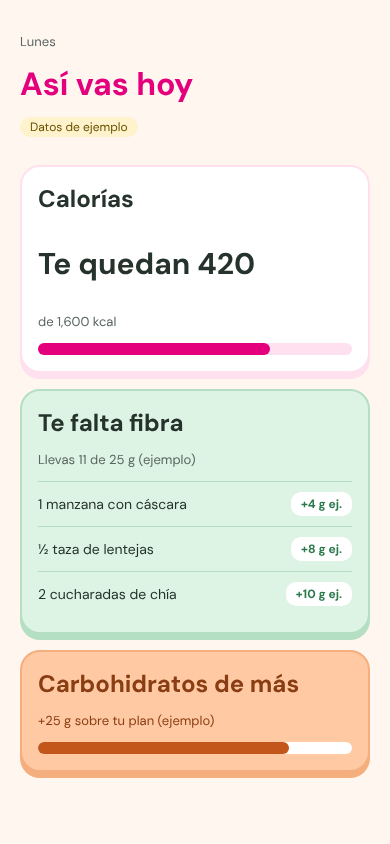
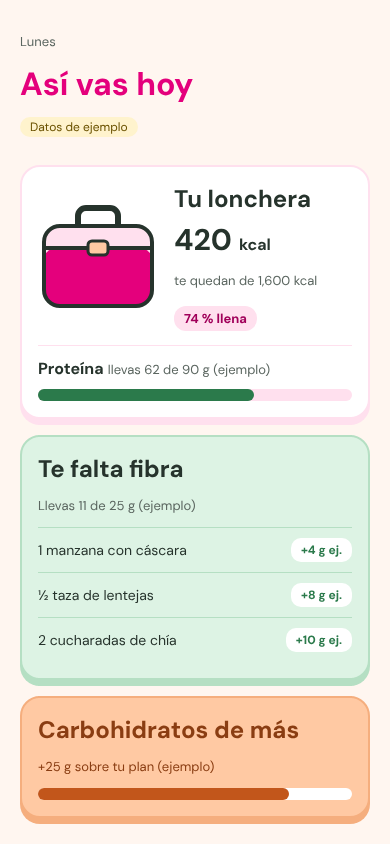
Paso 3: lonchera que se llena (SVG) y proteína
Datos de ejemplo en un solo objeto en app.js; la lonchera, el texto
y las barras salen de ahí.

Claude-Session: https://claude.ai/code/session_01R56yj7XNAcYoTsbzmzut6J

Changed region(s): [[0.0308, 0.5545, 0.9538, 0.9858], [0.0308, 0.2156, 0.9538, 0.6161]]

diff --git a/Lonchi.html b/Lonchi.html
@@ -16,15 +16,45 @@
         <p class="aviso-ejemplo">Datos de ejemplo</p>
     </header>
 
-    <!-- CALORÍAS -->
+    <!-- LONCHERA (calorías + proteína). Los números los pone app.js -->
     <section class="tarjeta">
-        <h2>Calorías</h2>
-        <p class="grande">Te quedan 420</p>
-        <p class="chico">de 1,600 kcal</p>
-        <!-- Llevas 1,180 de 1,600 = 74 % -->
-        <div class="barra" role="progressbar" aria-label="Calorías consumidas"
-             aria-valuemin="0" aria-valuemax="1600" aria-valuenow="1180">
-            <div class="relleno" style="width: 74%"></div>
+        <div class="lonchera-fila">
+            <svg class="lonchera" id="lonchera" viewBox="0 0 120 110" role="progressbar"
+                 aria-label="Calorías del día" aria-valuemin="0">
+                <defs>
+                    <clipPath id="caja">
+                        <rect x="6" y="24" width="108" height="80" rx="16"/>
+                    </clipPath>
+                </defs>
+                <!-- Asa -->
+                <path d="M40 24 V14 a8 8 0 0 1 8 -8 h24 a8 8 0 0 1 8 8 V24"
+                      fill="none" stroke="currentColor" stroke-width="6"/>
+                <!-- Caja vacía -->
+                <rect x="6" y="24" width="108" height="80" rx="16" class="lonchera-fondo"/>
+                <!-- Relleno que sube -->
+                <rect x="6" y="24" width="108" height="80" clip-path="url(#caja)"
+                      class="lonchera-relleno" id="lonchera-relleno"/>
+                <!-- Contorno, tapa y broche (encima del relleno) -->
+                <rect x="6" y="24" width="108" height="80" rx="16"
+                      fill="none" stroke="currentColor" stroke-width="4"/>
+                <line x1="6" y1="46" x2="114" y2="46" stroke="currentColor" stroke-width="4"/>
+                <rect x="50" y="39" width="20" height="14" rx="4" class="lonchera-broche"
+                      stroke="currentColor" stroke-width="3"/>
+            </svg>
+
+            <div>
+                <h2>Tu lonchera</h2>
+                <p class="grande"><span id="kcal-quedan">–</span> <small>kcal</small></p>
+                <p class="chico">te quedan de <span id="kcal-meta">–</span></p>
+                <p class="chip" id="lonchera-porcentaje">–</p>
+            </div>
+        </div>
+
+        <div class="proteina">
+            <p><strong>Proteína</strong> <span class="chico" id="prot-texto">–</span></p>
+            <div class="barra" role="progressbar" aria-label="Proteína del día" id="prot-barra" aria-valuemin="0">
+                <div class="relleno verde-relleno" id="prot-relleno"></div>
+            </div>
         </div>
     </section>
 

diff --git a/app.js b/app.js
@@ -2,6 +2,54 @@
 const dias = ["Domingo", "Lunes", "Martes", "Miércoles", "Jueves", "Viernes", "Sábado"];
 document.getElementById("dia").textContent = dias[new Date().getDay()];
 
+// ---------- Datos del día (EJEMPLO, no son datos reales) ----------
+// Más adelante esto vendrá de lo que registres. Por ahora cambia
+// estos números para probar cómo se llena la lonchera.
+const hoy = {
+    kcalMeta: 1600,
+    kcalComidas: 1180,
+    protMeta: 90,
+    protComidas: 62
+};
+
+// ---------- Lonchera ----------
+function formato(n) {
+    return n.toLocaleString("es-MX");
+}
+
+function pintarLonchera() {
+    const lleno = Math.min(hoy.kcalComidas / hoy.kcalMeta, 1); // nunca más de 1 (100 %)
+    const quedan = Math.max(hoy.kcalMeta - hoy.kcalComidas, 0);
+    const porcentaje = Math.round(lleno * 100);
+
+    document.getElementById("kcal-quedan").textContent = formato(quedan);
+    document.getElementById("kcal-meta").textContent = formato(hoy.kcalMeta) + " kcal";
+    document.getElementById("lonchera-porcentaje").textContent = porcentaje + " % llena";
+
+    const svg = document.getElementById("lonchera");
+    svg.setAttribute("aria-valuemax", hoy.kcalMeta);
+    svg.setAttribute("aria-valuenow", hoy.kcalComidas);
+    svg.setAttribute("aria-valuetext", "Llevas " + formato(hoy.kcalComidas) + " de " + formato(hoy.kcalMeta) + " kcal");
+
+    // Esperamos un instante para que se vea la animación de llenado
+    requestAnimationFrame(function () {
+        setTimeout(function () {
+            svg.style.setProperty("--lleno", lleno);
+        }, 50);
+    });
+
+    // Proteína
+    const prot = Math.min(hoy.protComidas / hoy.protMeta, 1);
+    document.getElementById("prot-texto").textContent =
+        "llevas " + hoy.protComidas + " de " + hoy.protMeta + " g (ejemplo)";
+    document.getElementById("prot-relleno").style.width = (prot * 100) + "%";
+    const barra = document.getElementById("prot-barra");
+    barra.setAttribute("aria-valuemax", hoy.protMeta);
+    barra.setAttribute("aria-valuenow", hoy.protComidas);
+}
+
+pintarLonchera();
+
 // ---------- Ventana de ayuda ----------
 const fondo = document.getElementById("fondo");
 const panel = document.getElementById("panel");

diff --git a/styles.css b/styles.css
@@ -98,6 +98,69 @@ h1 {
     background: var(--naranja-barra);
 }
 
+/* ---------- Lonchera ---------- */
+.lonchera-fila {
+    display: flex;
+    align-items: center;
+    gap: 16px;
+}
+
+.lonchera {
+    width: 120px;
+    flex-shrink: 0;
+    color: var(--texto); /* currentColor = color de las líneas */
+}
+
+.lonchera-fondo {
+    fill: var(--rosa-suave);
+}
+
+.lonchera-relleno {
+    fill: var(--rosa);
+    /* Crece de abajo hacia arriba. --lleno lo pone app.js (0 a 1) */
+    transform-box: fill-box;
+    transform-origin: bottom;
+    transform: scaleY(var(--lleno, 0));
+    transition: transform 0.9s ease-out;
+}
+
+.lonchera-broche {
+    fill: var(--naranja-pastel);
+}
+
+.grande small {
+    font-size: 16px;
+}
+
+.grande {
+    margin: 6px 0 0;
+}
+
+.chip {
+    display: inline-block;
+    margin: 4px 0 0;
+    background: var(--rosa-suave);
+    color: var(--rosa-oscuro);
+    font-size: 13px;
+    font-weight: bold;
+    border-radius: 12px;
+    padding: 4px 10px;
+}
+
+.proteina {
+    margin-top: 14px;
+    padding-top: 12px;
+    border-top: 1px solid var(--rosa-suave);
+}
+
+.proteina p {
+    margin: 0;
+}
+
+.barra .verde-relleno {
+    background: var(--verde);
+}
+
 /* ---------- Lista "te falta" ---------- */
 .lista {
     list-style: none;
@@ -231,5 +294,5 @@ button:focus-visible {
 
 /* Si la persona pidió menos animaciones en su celular, las quitamos */
 @media (prefers-reduced-motion: reduce) {
-    .panel, .fondo, .boton { transition: none; }
+    .panel, .fondo, .boton, .lonchera-relleno { transition: none; }
 }
